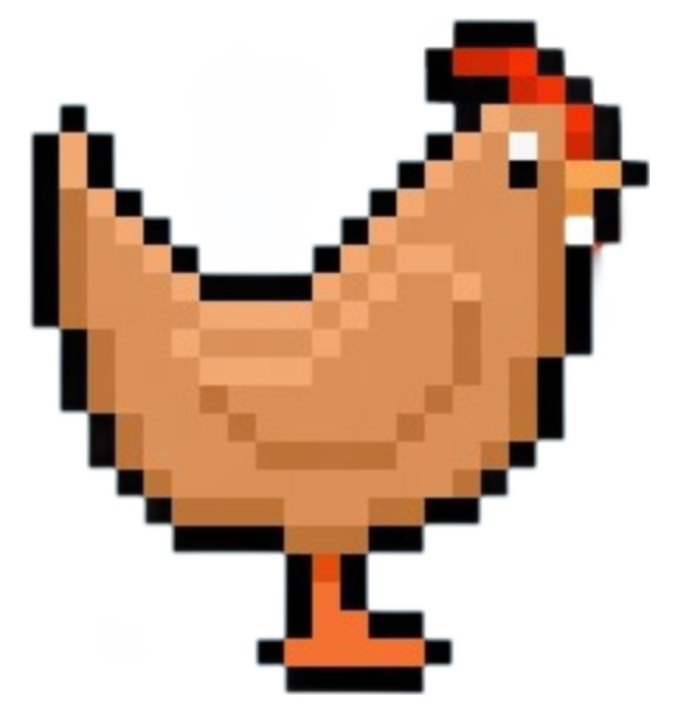
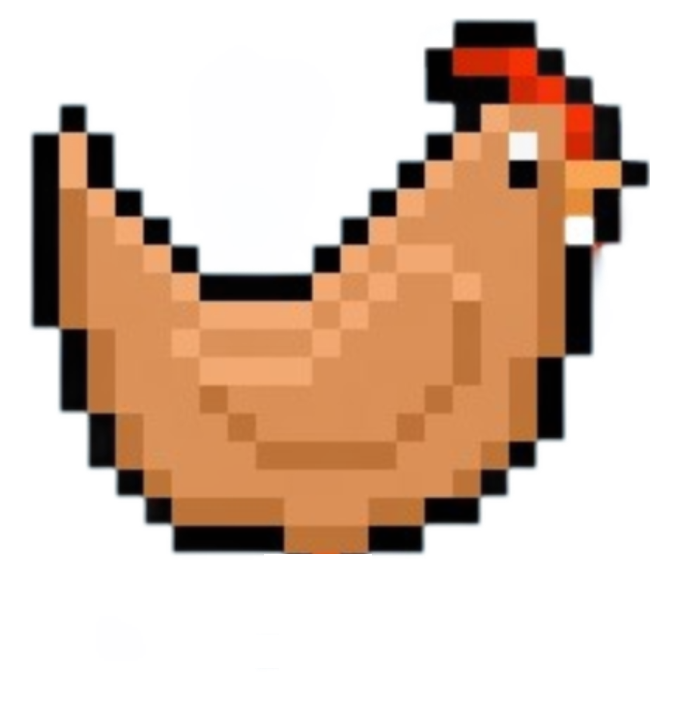
Additional chicken leg and animation

Changed region(s): [[0.3722, 0.7639, 0.6824, 0.9778]]

diff --git a/resources/css/runner.css b/resources/css/runner.css
@@ -30,24 +30,43 @@
     position: relative;
     width: 17px;
     height: 17px;
-    bottom: 17px;
-    left: 19px;
     transform-origin: top;
+}
+
+.leg.right {
+    bottom: 16px;
+    left: 16px;
+}
+
+.leg.left {
+    bottom: 33px;
+    left: 22px;
 }
 
 #chicken.walk {
     transform: rotate(-12deg);
 }
 
-#chicken.walk .leg {
-    animation: walk 1s infinite linear;
+#chicken.walk .leg.right {
+    animation: walkRight 0.5s infinite linear;
 }
-@keyframes walk {
+#chicken.walk .leg.left {
+    animation: walkLeft 0.5s infinite linear;
+}
+@keyframes walkRight {
     0% {
         transform: rotate(0);
     }
     100% {
         transform: rotate(50deg);
+    }
+}
+@keyframes walkLeft {
+    0% {
+        transform: rotate(-50deg);
+    }
+    100% {
+        transform: rotate(0);
     }
 }
 

diff --git a/resources/js/runner.js b/resources/js/runner.js
@@ -113,7 +113,7 @@ if (runnerContainer) {
                 counter++;
             }
             document.querySelector(".score b").textContent = counter;
-            if (counter >= 4 && !eagle.classList.contains("fly")) {
+            if (counter >= 5 && !eagle.classList.contains("fly")) {
                 eagle.classList.add("fly");
             }
         }

diff --git a/resources/views/games/runner.blade.php b/resources/views/games/runner.blade.php
@@ -15,7 +15,8 @@
             <img class='sky hidden' src="{{ asset('images/sky3.jpg') }}" alt="pixel sk3">
             <div id="chicken">
                 <img class="chicken" src="{{ asset('images/chicken.png') }}" alt="chicken">
-                <img class="leg" src="{{ asset('images/leg.png') }}" alt="chicken leg">
+                <img class="leg right" src="{{ asset('images/leg.png') }}" alt="chicken leg">
+                <img class="leg left" src="{{ asset('images/leg.png') }}" alt="chicken leg">
             </div>
             <div id="obstacle">
                 <img class="cactus" src="{{ asset('images/cactus.png') }}" alt="cactus">
